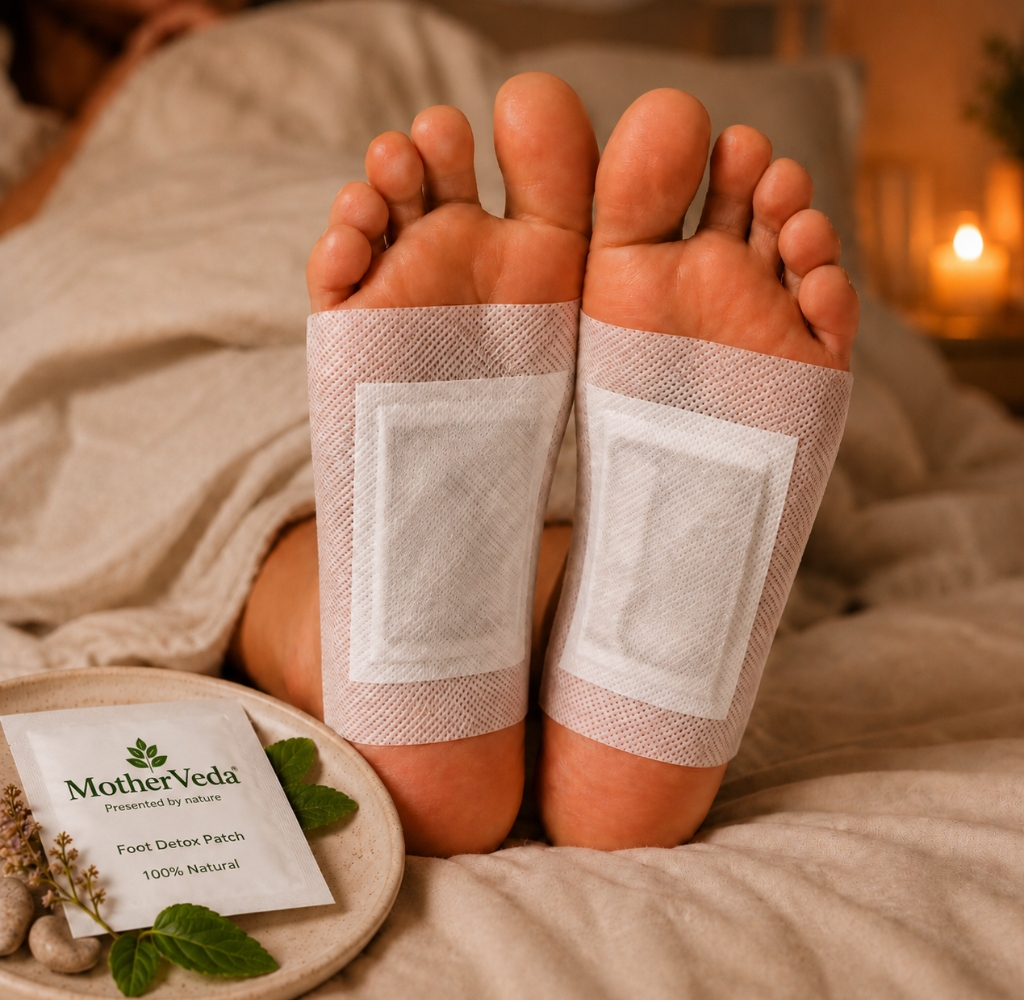
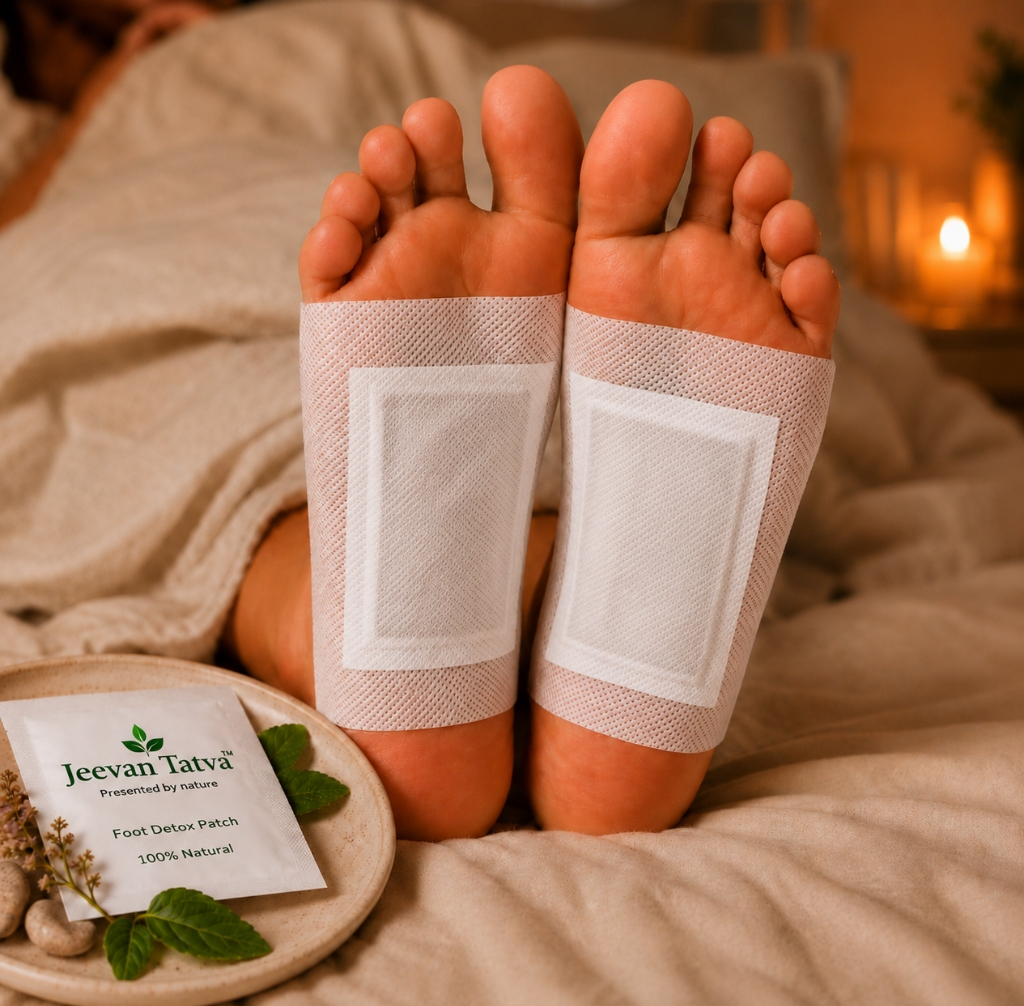
Image changed

diff --git a/src/routes/index.tsx b/src/routes/index.tsx
@@ -1,17 +1,17 @@
 import { createFileRoute } from "@tanstack/react-router";
 import { useState, useEffect } from "react";
 import { submitLead } from "@/lib/actions";
-import logo from "@/assets/motherveda-logo.png";
+import logo from "@/assets/jeevantatva-logo.svg";
 import heroImg from "@/assets/hero-transformation.jpg";
 import detoxDemoImg from "@/assets/detox-patch-demo.jpg";
-import productBoxImg from "@/assets/product-box.png";
+import productBoxImg from "@/assets/product-box.jpg";
 import gymImg from "@/assets/gym-frustration.jpg";
 import dietImg from "@/assets/dieting-frustration.jpg";
 import nightImg from "@/assets/night-routine.png";
 import doctorAvatar from "@/assets/doctor-avatar.png";
 
 import beforeAfterImg from "@/assets/before-after.gif";
-import productImg from "@/assets/product-shot.png";
+import productImg from "@/assets/product-shot.jpg";
 import review1Img from "@/assets/review-1.png";
 import review2Img from "@/assets/review-2.png";
 import review3Img from "@/assets/review-3.png";
@@ -22,13 +22,13 @@ export const Route = createFileRoute("/")({
   component: Index,
   head: () => ({
     meta: [
-      { title: "Motherveda Detox Foot Pads – Lighter Mornings, ₹999/Month" },
+      { title: "Jeevan Tatva Detox Foot Pads – Lighter Mornings, ₹999/Month" },
       {
         name: "description",
         content:
-          "Gym jaake bhi weight loss nahi ho raha? Motherveda Detox Foot Pads — overnight wellness routine for lighter, fresher mornings. 1 month supply ₹999.",
+          "Gym jaake bhi weight loss nahi ho raha? Jeevan Tatva Detox Foot Pads — overnight wellness routine for lighter, fresher mornings. 1 month supply ₹999.",
       },
-      { property: "og:title", content: "Motherveda Detox Foot Pads – ₹999" },
+      { property: "og:title", content: "Jeevan Tatva Detox Foot Pads – ₹999" },
       {
         property: "og:description",
         content:
@@ -45,7 +45,7 @@ export const Route = createFileRoute("/")({
   }),
 });
 
-const OPEN_ORDER_EVENT = "motherveda:open-order";
+const OPEN_ORDER_EVENT = "jeevantatva:open-order";
 
 function openOrder(e?: React.MouseEvent) {
   if (e) e.preventDefault();
@@ -71,7 +71,7 @@ function CTAButton({ children, className = "", variant = "primary" }: { children
 }
 
 function Logo({ className = "h-10" }: { className?: string }) {
-  return <img src={logo} alt="Motherveda" className={`${className} w-auto`} />;
+  return <img src={logo} alt="Jeevan Tatva" className={`${className} w-auto`} />;
 }
 
 function Badge({ children }: { children: React.ReactNode }) {
@@ -222,7 +222,7 @@ function Index() {
     if (isSubmitting) return;
 
     // Client-side 24hr check via localStorage
-    const STORAGE_KEY = "motherveda_lead_submitted";
+    const STORAGE_KEY = "jeevantatva_lead_submitted";
     const stored = localStorage.getItem(STORAGE_KEY);
     if (stored) {
       try {
@@ -245,7 +245,7 @@ function Index() {
           phone: form.contact,
           address: form.address,
           pincode: form.pincode,
-          productName: "Motherveda Detox Foot Pads",
+          productName: "Jeevan Tatva Detox Foot Pads",
           price: "999",
           submittedAt: new Date().toISOString(),
         },
@@ -409,7 +409,7 @@ function Index() {
           Real Users. Real Night Routine. <span className="text-herb">Real Fat-Loss Support.</span>
         </SectionTitle>
         <p className="mx-auto mt-4 max-w-2xl text-center text-base leading-relaxed text-muted-foreground">
-          Customers who added Motherveda Foot Detox Pads to their bedtime routine shared how their body felt lighter, fat-loss journey got a push, and mornings became fresher and more relaxed.
+          Customers who added Jeevan Tatva Foot Detox Pads to their bedtime routine shared how their body felt lighter, fat-loss journey got a push, and mornings became fresher and more relaxed.
         </p>
 
         <div className="mt-12 grid gap-6 sm:grid-cols-2 lg:grid-cols-3">
@@ -452,7 +452,7 @@ function Index() {
                   <div className="mt-4 overflow-hidden rounded-2xl border border-border">
                     <img
                       src={t.proof}
-                      alt={`${t.n} ka Motherveda night routine proof`}
+                      alt={`${t.n} ka Jeevan Tatva night routine proof`}
                       loading="lazy"
                       className="h-40 w-full object-cover"
                     />
@@ -463,7 +463,7 @@ function Index() {
                   <span className="rounded-full bg-beige px-3 py-1 font-semibold text-herb">
                     🌙 {t.usage}
                   </span>
-                  <span className="text-muted-foreground">Motherveda Pads</span>
+                  <span className="text-muted-foreground">Jeevan Tatva Pads</span>
                 </div>
               </article>
             );
@@ -527,13 +527,13 @@ function Index() {
             </p>
             <p className="mt-5 text-base leading-relaxed text-muted-foreground sm:text-lg">
               Dieting karke thak gaye? Heavy body, bloating aur tired mornings aapki fat-loss
-              journey ko slow feel kara sakte hain. <b className="text-foreground">Motherveda Detox Foot Pads</b> ek
+              journey ko slow feel kara sakte hain. <b className="text-foreground">Jeevan Tatva Detox Foot Pads</b> ek
               simple overnight wellness routine hai jo aapko morning mein <i>lighter, fresher</i> aur
               more active feel karne mein support karta hai.
             </p>
 
             <div className="mt-5 overflow-hidden rounded-3xl shadow-soft ring-1 ring-herb-deep/10 md:hidden">
-              <img src={heroImg} alt="Before and after transformation feeling with Motherveda" width={1536} height={1024} className="h-full w-full object-cover" />
+              <img src={heroImg} alt="Before and after transformation feeling with Jeevan Tatva" width={1536} height={1024} className="h-full w-full object-cover" />
             </div>
 
             <ul className="mx-auto mt-6 grid max-w-md gap-2.5 text-sm font-medium text-foreground sm:text-base md:mx-0 md:max-w-none">
@@ -572,7 +572,7 @@ function Index() {
 
         <div className="relative mx-auto max-w-7xl px-4 pb-6 sm:px-6">
           <div className="mx-auto max-w-3xl overflow-hidden rounded-3xl shadow-soft ring-1 ring-herb-deep/10">
-            <img src={productBoxImg} alt="Motherveda Foot Detox Patch product box with 30 pads" width={1280} height={1280} className="h-full w-full object-cover" loading="lazy" />
+            <img src={productBoxImg} alt="Jeevan Tatva Foot Detox Patch product box with 30 pads" width={1280} height={1280} className="h-full w-full object-cover" loading="lazy" />
           </div>
         </div>
 
@@ -665,7 +665,7 @@ function Index() {
               <FatLossTag />
             </div>
             <h2 className="mt-4 text-3xl font-bold leading-tight text-foreground sm:text-4xl md:text-5xl">
-              Meet <span className="text-herb">Motherveda Detox Foot Pads</span>
+              Meet <span className="text-herb">Jeevan Tatva Detox Foot Pads</span>
             </h2>
             <p className="mt-5 text-base leading-relaxed text-muted-foreground sm:text-lg">
               Raat ko sone se pehle foot pads apply karo. Ye simple overnight wellness routine
@@ -815,12 +815,12 @@ function Index() {
               <div className="bg-beige p-8 sm:p-10">
                 <Logo className="mx-auto h-12 md:mx-0" />
                 <div className="mt-6 overflow-hidden rounded-2xl">
-                  <img src={productImg} alt="Motherveda pack" loading="lazy" width={1280} height={1280} className="h-full w-full object-cover" />
+                  <img src={productImg} alt="Jeevan Tatva pack" loading="lazy" width={1280} height={1280} className="h-full w-full object-cover" />
                 </div>
               </div>
               <div className="p-8 text-center sm:p-10 md:text-left">
                 <Badge>Best Value Pack</Badge>
-                <h3 className="mt-4 font-display text-3xl font-bold text-foreground">Motherveda Detox Foot Pads</h3>
+                <h3 className="mt-4 font-display text-3xl font-bold text-foreground">Jeevan Tatva Detox Foot Pads</h3>
                 <p className="text-sm text-muted-foreground">1 Month Supply · 30 Pads</p>
 
                 <div className="mt-5 flex items-end justify-center gap-3 md:justify-start">
@@ -881,7 +881,7 @@ function Index() {
             Ab Heavy Morning Ko <span className="text-gold">Normal Mat Samjho</span>
           </h2>
           <p className="mx-auto mt-5 max-w-2xl text-base sm:text-lg">
-            Start Motherveda Detox Foot Pads 1 month routine and support your fat-loss journey with
+            Start Jeevan Tatva Detox Foot Pads 1 month routine and support your fat-loss journey with
             lighter, fresher mornings.
           </p>
           <button type="button" onClick={openOrder} className="mt-8 inline-flex items-center justify-center rounded-full bg-gold px-10 py-5 text-lg font-bold text-ink shadow-soft animate-cta-shake hover:scale-[1.03] transition-transform">
@@ -907,7 +907,7 @@ function Index() {
               <a href="#faq">FAQ</a>
             </nav>
           </div>
-          <p className="mt-6 text-center text-xs text-cream/40">© {new Date().getFullYear()} Motherveda. All rights reserved.</p>
+          <p className="mt-6 text-center text-xs text-cream/40">© {new Date().getFullYear()} Jeevan Tatva. All rights reserved.</p>
         </div>
       </footer>
 

diff --git a/src/routes/__root.tsx b/src/routes/__root.tsx
@@ -72,16 +72,16 @@ export const Route = createRootRouteWithContext<{ queryClient: QueryClient }>()(
     meta: [
       { charSet: "utf-8" },
       { name: "viewport", content: "width=device-width, initial-scale=1" },
-      { title: "Motherveda Detox Foot Pads – Lighter Mornings, ₹999/Month" },
-      { name: "description", content: "Motherveda Wellness Hub offers detox foot pads to support your wellness routine and promote lighter mornings." },
-      { name: "author", content: "Motherveda" },
-      { property: "og:title", content: "Motherveda Detox Foot Pads" },
-      { property: "og:description", content: "Motherveda Wellness Hub offers detox foot pads to support your wellness routine and promote lighter mornings." },
+      { title: "Jeevan Tatva Detox Foot Pads – Lighter Mornings, ₹999/Month" },
+      { name: "description", content: "Jeevan Tatva Wellness Hub offers detox foot pads to support your wellness routine and promote lighter mornings." },
+      { name: "author", content: "Jeevan Tatva" },
+      { property: "og:title", content: "Jeevan Tatva Detox Foot Pads" },
+      { property: "og:description", content: "Jeevan Tatva Wellness Hub offers detox foot pads to support your wellness routine and promote lighter mornings." },
       { property: "og:type", content: "website" },
       { name: "twitter:card", content: "summary" },
-      { name: "twitter:site", content: "@Motherveda" },
-      { name: "twitter:title", content: "Motherveda Detox Foot Pads" },
-      { name: "twitter:description", content: "Motherveda Wellness Hub offers detox foot pads to support your wellness routine and promote lighter mornings." },
+      { name: "twitter:site", content: "@JeevanTatva" },
+      { name: "twitter:title", content: "Jeevan Tatva Detox Foot Pads" },
+      { name: "twitter:description", content: "Jeevan Tatva Wellness Hub offers detox foot pads to support your wellness routine and promote lighter mornings." },
       { property: "og:image", content: "https://pub-bb2e103a32db4e198524a2e9ed8f35b4.r2.dev/c0b5807f-f01b-44bc-8374-20d1d15550d3/id-preview-c306c8bc--9d3e3341-c392-462d-bf67-7577e637eb81.lovable.app-1779175348904.png" },
       { name: "twitter:image", content: "https://pub-bb2e103a32db4e198524a2e9ed8f35b4.r2.dev/c0b5807f-f01b-44bc-8374-20d1d15550d3/id-preview-c306c8bc--9d3e3341-c392-462d-bf67-7577e637eb81.lovable.app-1779175348904.png" },
     ],
